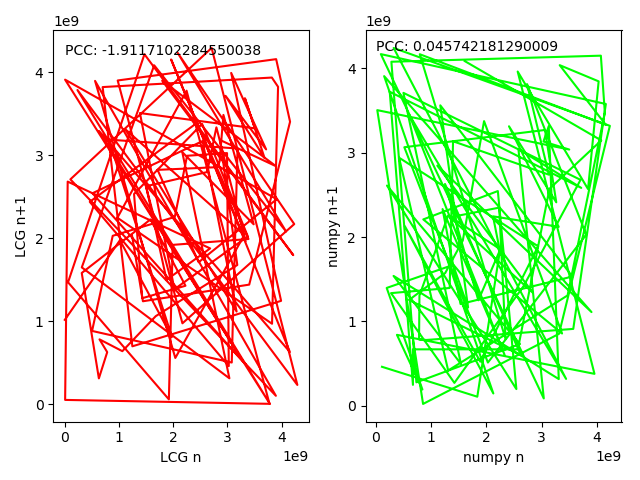
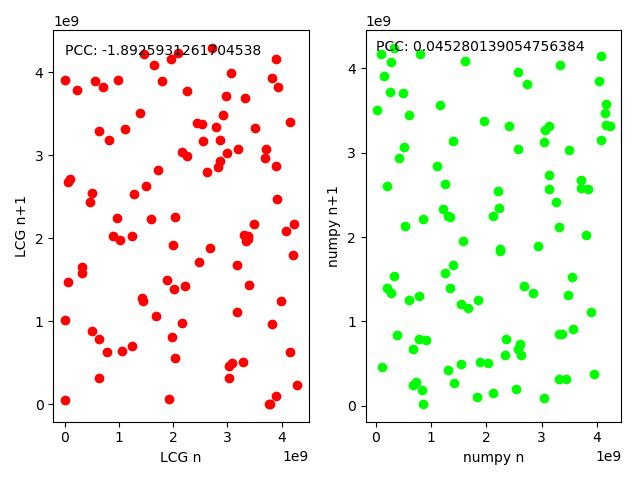
Improved distribution questions and random number generator plots

Changed region(s): [[0.0938, 0.0938, 0.4688, 0.875], [0.5625, 0.0625, 0.9688, 0.875]]

diff --git a/Tutorial 4/Q6.py b/Tutorial 4/Q6.py
@@ -6,18 +6,18 @@ np.random.seed(42)
 mu = 0
 b = 1
 
-points = np.linspace(0,1,100)
+points = np.linspace(-5,5,100)
 laplace = np.exp(-np.abs(points-mu)/b)/(2*b)
 
 y = np.random.uniform(0,1,100)
 y = y[np.argsort(y)]
-cdf1 = (0.5*np.exp((y[y<=mu]-mu)/b))
-cdf2 = (1-0.5*np.exp((mu-y[y>mu])/b))
-x1 = mu + b*np.log(2*y[y<=mu])
-x2 = mu - b*np.log(2*(1-y[y>mu]))
+cdf1 = (0.5*np.exp((y[y<=0.5]-mu)/b))
+cdf2 = (1-0.5*np.exp((mu-y[y>0.5])/b))
+x1 = mu + b*np.log(2*y[y<=0.5])
+x2 = mu - b*np.log(2*(1-y[y>0.5]))
+x = np.concatenate((x1,x2))
 
-plt.plot(y[y<=mu],x1,c=(0,0,1),label='Transformation Method')
-plt.plot(y[y>mu],x2,c=(0,0,1),label='Transformation Method')
+plt.hist(x,color=(0,0,1),density=1,label='Transformation Method')
 plt.plot(points,laplace,c=(0,1,0),label='Laplace Distribution')
 plt.legend()
 plt.show()

diff --git a/Tutorial 4/Q2.py b/Tutorial 4/Q2.py
@@ -20,7 +20,7 @@ n = np.array(x[:-1])
 np1 = np.array(x[1:])
 
 def PCC(x,y):
-   return (np.mean(x*y)-np.mean(x)*np.mean(y))/((np.var(x)*np.var(y))**0.5)
+   return (np.mean(x*y)-np.mean(x)*np.mean(y))/((np.var(x,ddof=1)*np.var(y,ddof=1))**0.5)
 
 coefLCG = PCC(n,np1)
 
@@ -36,8 +36,8 @@ print("Pearson Correlation Coefficient for numpy.random.uniform(0,2^"+str(k)+",1
 fig, axs = plt.subplots(1, 2, sharey=False, tight_layout=True)
 
 # We can set the number of bins with the `bins` kwarg
-axs[0].plot(n, np1, color=(1,0,0))
-axs[1].plot(numpyn, numpynp1, color=(0,1,0))
+axs[0].scatter(n, np1, marker="o", color=(1,0,0))
+axs[1].scatter(numpyn, numpynp1, marker="o", color=(0,1,0))
 
 axs[0].text(0,4.2*10**9,'PCC: '+str(coefLCG))
 axs[1].text(0,4.2*10**9,'PCC: '+str(coefNUMPY))

diff --git a/Tutorial 4/Q3.py b/Tutorial 4/Q3.py
@@ -39,8 +39,8 @@ print("Pearson Correlation Coefficient for numpy.random.uniform(0,"+str(m)+",100
 fig, axs = plt.subplots(1, 2, sharey=False, tight_layout=True)
 
 # We can set the number of bins with the `bins` kwarg
-axs[0].plot(n, np1, color=(1,0,0))
-axs[1].plot(numpyn, numpynp1, color=(0,1,0))
+axs[0].scatter(n, np1, marker="o", color=(1,0,0))
+axs[1].scatter(numpyn, numpynp1, marker="o", color=(0,1,0))
 
 axs[0].text(5,32,'PCC: '+str(coefICG))
 axs[1].text(0,255,'PCC: '+str(coefNUMPY))

diff --git a/Tutorial 4/Q5.py b/Tutorial 4/Q5.py
@@ -6,14 +6,14 @@ np.random.seed(42)
 x0 = 0
 gamma = 0.5
 
-points = np.linspace(0,1,100)
+points = np.linspace(-30,10,100)
 cauchy = 1/(np.pi*gamma*(1+((points-x0)/gamma)**2))
 
 y = np.random.uniform(0,1,100)
 y = y[np.argsort(y)]
 x = x0 + gamma*np.tan(np.pi*(y-0.5))
 
-plt.plot(y,x,c=(0,0,1),label='Transformation Method')
+plt.hist(x,100,color=(0,0,1),label='Transformation Method',density=1)
 plt.plot(points,cauchy,c=(0,1,0),label='Cauchy Distribution')
 plt.legend()
 plt.show()
